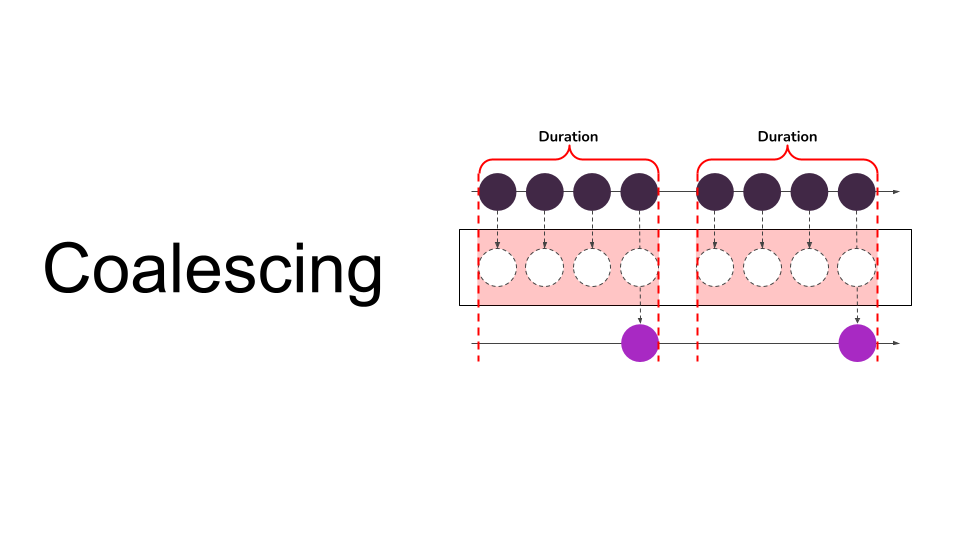
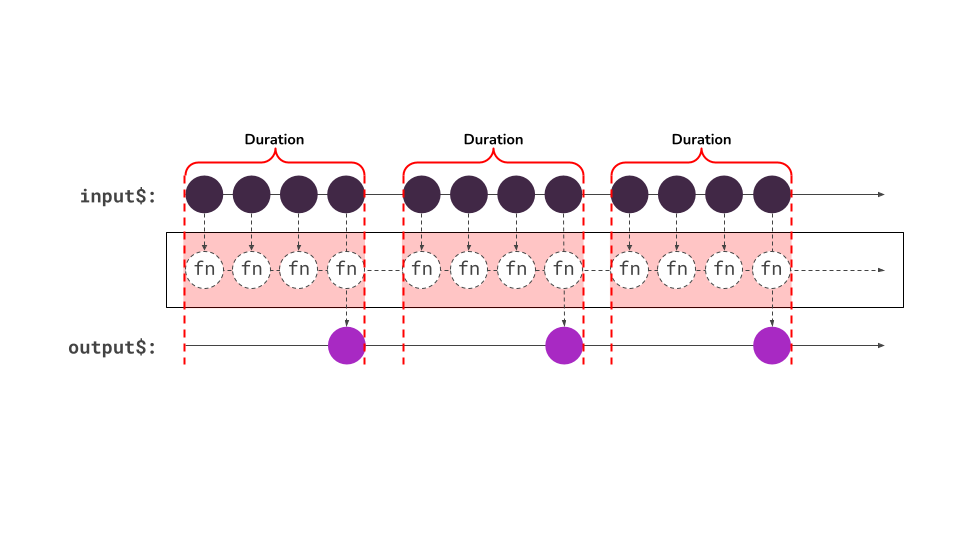
docs(coalescing): updated images and added marble diagrams

diff --git a/libs/cdk/coalescing/docs/Readme.md b/libs/cdk/coalescing/docs/Readme.md
@@ -5,7 +5,7 @@ A demo application is available on [GitHub](https://github.com/BioPhoton/rx-angu
 
 # Motivation
 
-![Angular - Coalescing re-render caused by `markForCheck` diagram](https://user-images.githubusercontent.com/10064416/117549469-d1d63400-b03a-11eb-9711-aeee24347f9a.png)
+![RxAngular - CDK/Coalescing](https://github.com/rx-angular/rx-angular/blob/master/libs/cdk/coalescing/docs/images/rx-angular-cdk-coalescing.png)
 
 Coalescing in general means, bring together multiple things into one. This can be anything starting from values to whole systems.
 In RxAngular coalescing always refers to any sort of emissions or calls that will merge into one. The logic is implemented as RxJS operators and used to improve the change detection mechanism of Angular.
@@ -26,12 +26,12 @@ In the following image we see 3 changes that call `ChangeDetectorRef#markForChec
 The internal logic then delay's these calls for a while by using `requestAnimationFrame` and calls `ApplicationRef#tick` only one time after the next animation frame arrives.
 This way Angular's change detection and re-evaluation/re-rendering of the app get executed only once for all calls that fall into the duration from invocation until the next animation frame lands.
 
-![Angular - Coalescing re-render caused by `markForCheck` diagram]()
+![Angular - Coalescing re-render caused by `markForCheck` diagram](https://github.com/rx-angular/rx-angular/blob/master/libs/cdk/coalescing/docs/images/rx-angular-cdk-coalescing__appRef#tick-coalescing.png)
 
 If we visualize the same behavior based on flame charts we can understand the interlan logic and naming of the different steps in that process more technically.
 The graphic shows start of the coalescing duration, the differen browser events and where the execution of certain logic is moved to.
 
-![Angular - Coalescing re-render caused by `markForCheck` flame charts]()
+![Angular - Coalescing re-render caused by `markForCheck` flame charts](https://github.com/rx-angular/rx-angular/blob/master/libs/cdk/coalescing/docs/images/rx-angular-cdk-coalescing__appRef#tick-coalescing-flames.png)
 
 With that information we should be able to reflect this concept also onto other usages in Angular.
 
@@ -49,7 +49,13 @@ There are 2 main pieces to understand:
 - the coalescing mechanism
 - the scoping mechanism
 
-In the section usage we gill go into more detail.
+In the section usage we will go into more detail.
+
+## Diagram
+
+![Angular - coalesceWith shifted version](https://github.com/rx-angular/rx-angular/blob/master/libs/cdk/coalescing/docs/images/rx-angular-cdk-coalescing_coalesceWith1.png)
+
+![Angular - coalesceWith aligned version](https://github.com/rx-angular/rx-angular/blob/master/libs/cdk/coalescing/docs/images/rx-angular-cdk-coalescing_coalesceWith2.png)
 
 ## Setup
 
@@ -93,7 +99,7 @@ from([1, 2, 3]).pipe(coalesceWith()).subscribe(doStuff); // 1 x doStuff
 By default, the duration in which values get united is derived from a `Promise` which executes immediately after the synchronous code got executed.
 
 See the diagram for details:
-![coalesceWith - micro taks duration selector]()
+![coalesceWith - micro taks duration selector](https://github.com/rx-angular/rx-angular/blob/master/libs/cdk/coalescing/docs/images/rx-angular-cdk-coalescing_duration-selector-micro-task.png)
 
 To have more fine-grained control over the duration of coalescing an optional parameter `durationSelector` is provided.
 `durationSelector` is of type `Observable<unknown>` and the first emission of it terminates the coalescing duration.
@@ -101,12 +107,9 @@ To have more fine-grained control over the duration of coalescing an optional pa
 You could pass e.g. `timer(0, 0)` as `durationSelector` to use a `setInterval` as duration period.
 
 See the diagram for details:
-![coalesceWith - macro taks duration selector]()
+![coalesceWith - macro taks duration selector](https://github.com/rx-angular/rx-angular/blob/master/libs/cdk/coalescing/docs/images/rx-angular-cdk-coalescing_duration-selector-micro-task-flames.png)
 
 Even a longer duration based on milliseconds e.g. `timer(0, 500)` can be used as duration.
-
-See the diagram for details:
-![coalesceWith - 500ms duration selector]()
 
 For more information on the different scheduling options you could have a look at the different scheduling API's like
 `queueMicroTask`, `requestAnimationFrame`, `setTimeout`, `postMessage` or `requestIdleCallback`.
